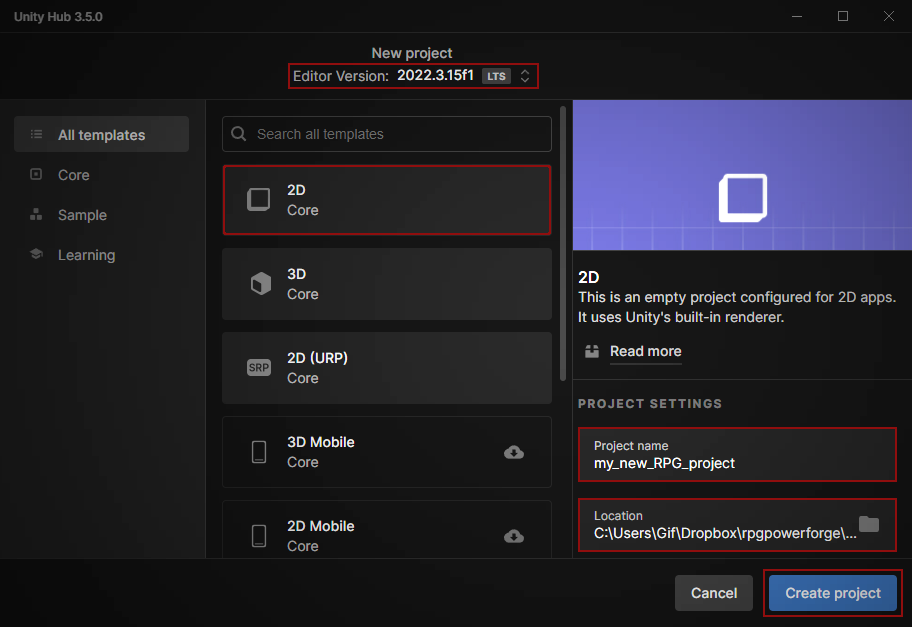
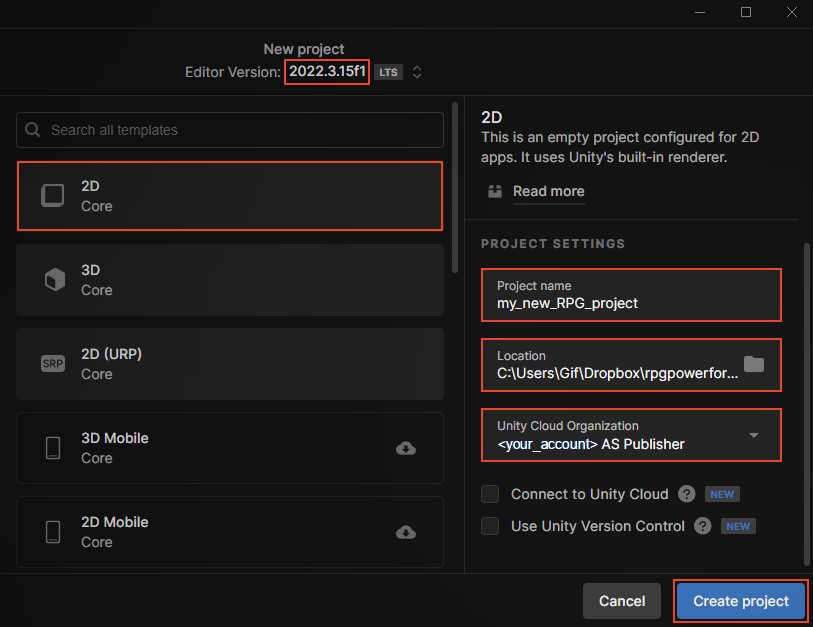
game

diff --git a/custom-css/home.css b/custom-css/home.css
@@ -40,7 +40,7 @@ body{
 }
 
 .card:hover{
-    transform: scale(1.07);
+    transform: scale(1.03);
 }
 
 .card-image{

diff --git a/scripts/lets_make_a_game.py b/scripts/lets_make_a_game.py
@@ -1,0 +1,76 @@
+import re # regex operations
+import sys # to return 0
+import os # loop over files
+from config import config
+import random
+
+# goal : edit lets make a game page to add specific div tags
+
+# replace in a file
+def set_lets_make_a_game(filename):
+    # Safely read the input filename using 'with'
+    s= ""
+    with open(filename, 'r', encoding="utf8") as f:
+        s = f.read()
+
+    # safe exit
+    if (s == ""):
+        return
+
+    # prepare funny tags
+    tags_2d = ""
+    for tag in config.tags_2d:
+        tags_2d += f"<div class=\"tag\" style=\"background-color:ForestGreen\">{tag}</div>"
+    tags_2d = f"<div class=\"tags_container\">{tags_2d}</div>"
+
+    tags_3d = ""
+    for tag in config.tags_3d:
+        tags_3d += f"<div class=\"tag\" style=\"background-color:Chocolate\">{tag}</div>"
+    tags_3d = f"<div class=\"tags_container\">{tags_3d}</div>"
+
+    tags_4d = ""
+    for tag in config.tags_4d:
+        tags_4d += f"<div class=\"tag\" style=\"background-color:Crimson\">{tag}</div>"
+    tags_4d = f"<div class=\"tags_container\">{tags_4d}</div>"
+
+    # setup cards
+    str_to_replace = "CARDS_GO_HERE"
+    str_replacement = f"<div class=\"cards\">\
+            <div class=\"card card1\" onclick=\"window.location.href = 'https://cursoreffects.com/';\" style=\"cursor: pointer;\">\
+                <div class=\"card-image\"><img src=\"https://rpgpowerforge.com/media/lets_make_a_game/card_2d.png\"></img></div>\
+                <div class=\"card-text\"><h3>{config.title_2d}</h3>{tags_2d}<p>{config.description_2d}</p></div>\
+            </div>\
+            <div class=\"card card2\" onclick=\"window.location.href = 'https://jacksonpollock.org/';\" style=\"cursor: pointer;\">\
+                <div class=\"card-image\"><img src=\"https://rpgpowerforge.com/media/lets_make_a_game/card_3d.png\"></img></div>\
+                <div class=\"card-text\"><h3>{config.title_3d}</h3>{tags_3d}<p>{config.description_3d}</p></div>\
+            </div>\
+            <div class=\"card card3\" onclick=\"window.location.href = 'https://burymewithmymoney.com/';\" style=\"cursor: pointer;\">\
+                <div class=\"card-image\"><img src=\"https://rpgpowerforge.com/media/lets_make_a_game/card_4d.png\"></img></div>\
+                <div class=\"card-text\"><h3>{config.title_4d}</h3>{tags_4d}<p>{config.description_4d}</p></div>\
+            </div>\
+        </div>"
+
+    s = s.replace(str_to_replace, str_replacement)
+
+    # Safely write the changed content
+    with open(filename, 'w', encoding="utf8") as f:
+        f.write(s)
+
+
+# entry point
+book_root = "./../book/"
+nb_files=0
+print("====================================")
+print("LETS MAKE A GAME UPDATE")
+print(f"Scanning html files in {book_root} and updating the lets make a game page")
+for root, dirs, files in os.walk(book_root, topdown=False):
+   for filename in files:
+        if filename.endswith(".html"):
+            basename = os.path.basename(filename)
+            if (basename == "lets_make_a_game.html"):
+                set_lets_make_a_game(os.path.join(root, filename))
+            nb_files+=1
+print(f"{nb_files} updated")
+
+# safe return
+sys.exit(0)

diff --git a/scripts/config.py b/scripts/config.py
@@ -9,6 +9,19 @@ class config:
     # images
     img_favicon = "https://rpgpowerforge.com/media/icons/favicon5.png"
 
+    # let's make a game !
+    title_2d = "2D RPG game"
+    title_3d = "3D RPG game"
+    title_4d = "4D RPG game"
+
+    tags_2d = ["simple", "accessible"]
+    tags_3d = ["medium", "challenging"]
+    tags_4d = ["impossible", "very_hard", "not_simple_at_all", "dont_try_this_at_home"]
+
+    description_2d = "2D RPG games are cool and retro"
+    description_3d = "Let do a 3D RPG game"
+    description_4d = "???"
+
     # dev team
     title_gif = "Gif 👴🏻"
     title_chiw = "Chiw 😺"

diff --git a/src/en/stable/installation/create_new_project.md b/src/en/stable/installation/create_new_project.md
@@ -22,6 +22,7 @@ On the setting page, [[mind the steps]] :
 1. Check the Unity version you are using (we recommend **Unity 2022.3**)
 1. Select the "2D Core" project template
 1. Fill the project name and location
+1. Select your Unity account for "Unity Cloud Organization"
 1. Click "Create project" !
 
 ![new_project_settings.png](./../../../../media/new_project/new_project_settings.png)

diff --git a/src/en/stable/getting_started/lets_make_a_game.md b/src/en/stable/getting_started/lets_make_a_game.md
@@ -3,3 +3,5 @@
 ```admonish warning title="Hold on..."
 I'm working on it !
 ```
+
+CARDS_GO_HERE
